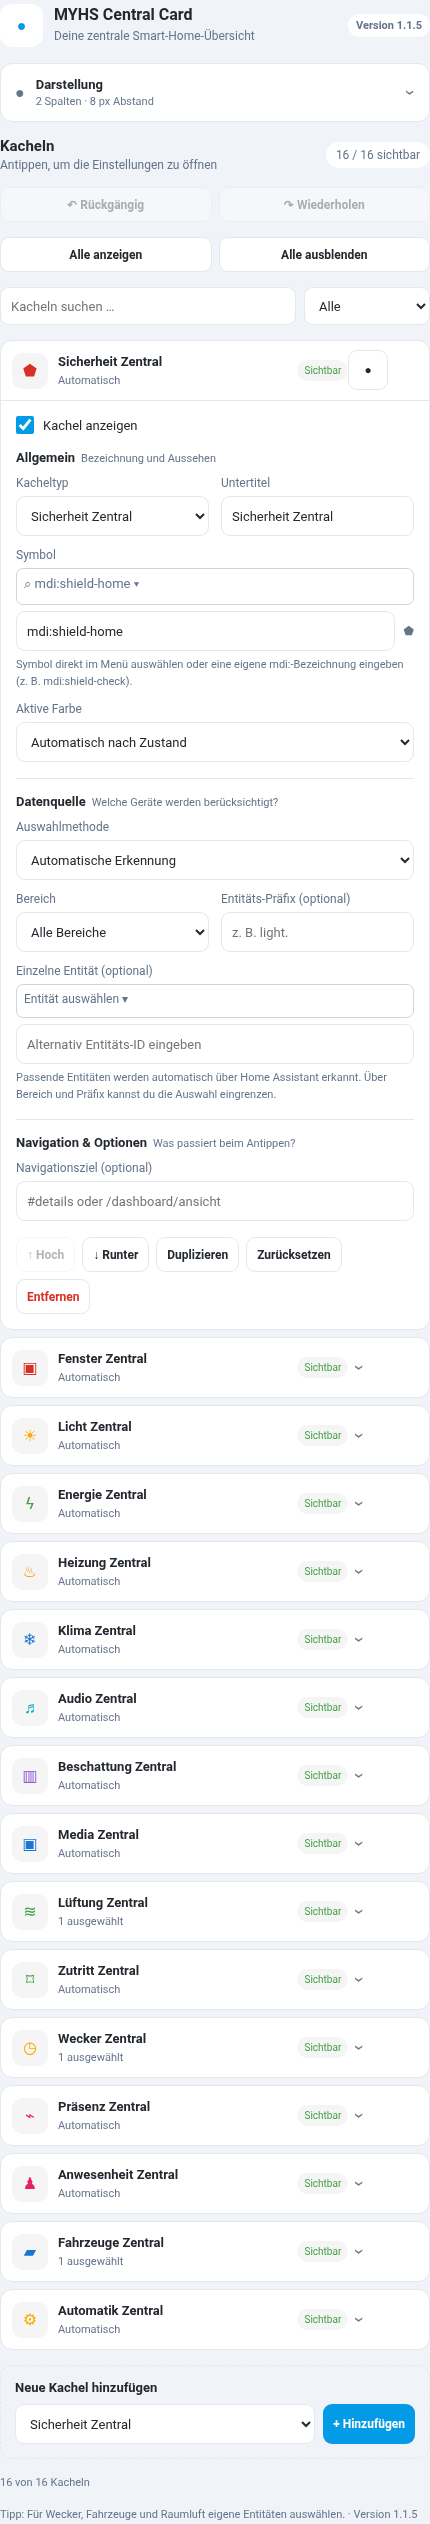
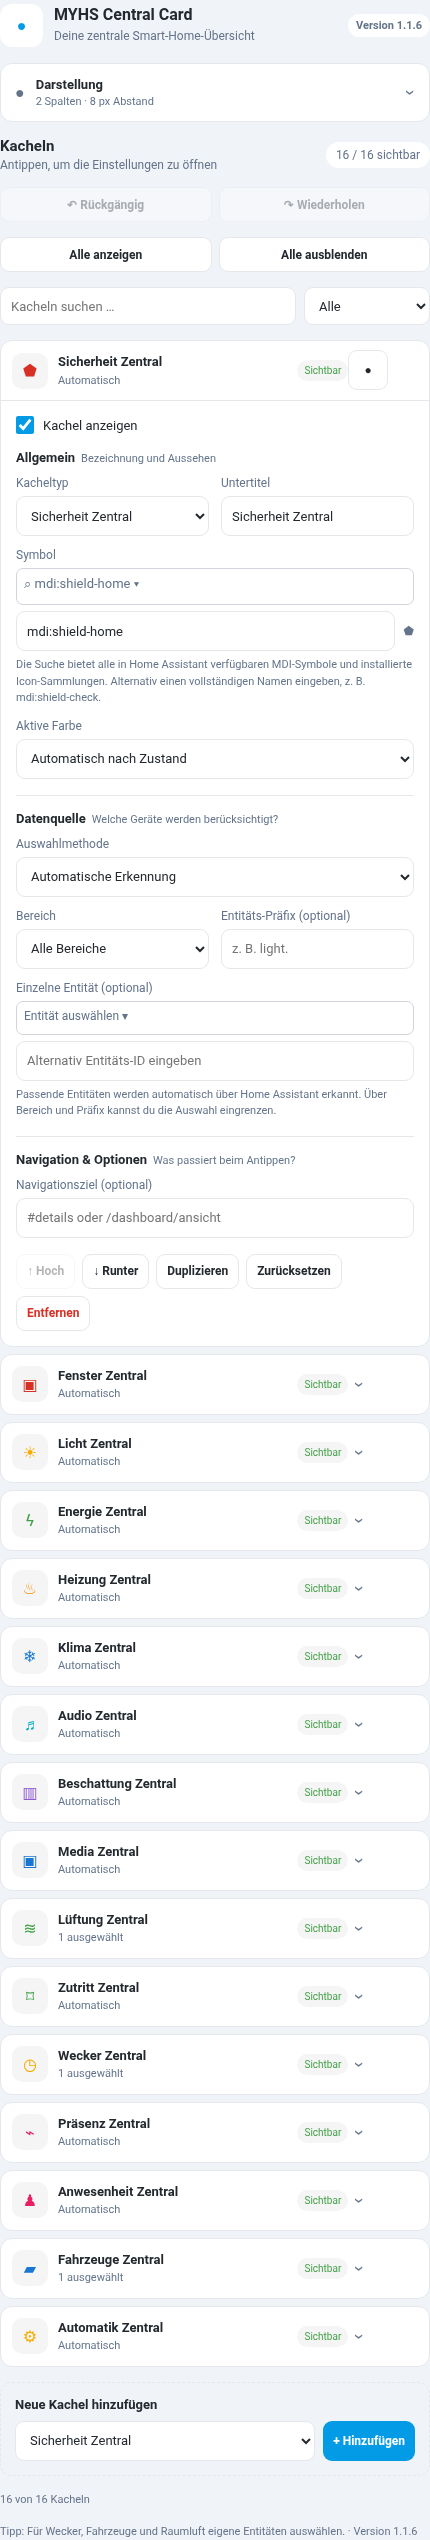
Add files via upload

diff --git a/dist/central-overview-card.js b/dist/central-overview-card.js
@@ -1,4 +1,4 @@
-/* MYHS Central Card | Version 1.1.5 | MIT | Home Assistant Lovelace | no dependencies */
+/* MYHS Central Card | Version 1.1.6 | MIT | Home Assistant Lovelace | no dependencies */
 (() => {
   'use strict';
   const TAG = 'central-overview-card';
@@ -50,10 +50,13 @@
     alarm_home_legacy:false, tiles:Object.keys(KINDS).map(createTile)});
   const strings = (value) => Array.isArray(value) ? value.filter(v => typeof v === 'string') : [];
   const uniq = (items) => [...new Set(items.filter(Boolean))];
-  // Built-in Home Assistant Material Design icons only: never require local icon packs.
+  // Accept all native mdi: icons and any optional, installed icon collection
+  // Installed icon prefixes are managed by Home Assistant.
+  // Existing mdi: defaults always work without additional icon packages.
+  const isIconName = value => typeof value === 'string' &&
+    /^[a-z][a-z0-9_-]*:[a-z0-9][a-z0-9._-]*$/i.test(value);
   const mdiIcon = (candidate, kind) =>
-    (typeof candidate === 'string' && /^mdi:[a-z0-9][a-z0-9-]*$/i.test(candidate))
-      ? candidate : (KINDS[kind]?.icon || 'mdi:help-circle');
+    isIconName(candidate) ? candidate : (KINDS[kind]?.icon || 'mdi:help-circle');
   const hasState = (entity) => Boolean(entity && typeof entity.state === 'string' &&
     entity.state.trim() !== '' && !['unknown','unavailable'].includes(entity.state));
   const esc = (s) => String(s ?? '').replace(/[&<>"']/g, (x) => ({'&':'&amp;','<':'&lt;','>':'&gt;','"':'&quot;',"'":'&#39;'}[x]));
@@ -330,7 +333,7 @@
     _update() {
       if (!this._config) return;
       if (!this._rendered) {
-        this.shadowRoot.innerHTML=`<style>${CARD_CSS}</style><ha-card data-card-version="1.1.5"><div class="grid"></div></ha-card>`;
+        this.shadowRoot.innerHTML=`<style>${CARD_CSS}</style><ha-card data-card-version="1.1.6"><div class="grid"></div></ha-card>`;
         this.shadowRoot.querySelector('.grid').addEventListener('click',(ev)=>{
           const btn=ev.target.closest('button.tile');
           if (!btn) return;
@@ -420,8 +423,13 @@
     .check {display:flex;align-items:center;gap:9px;font-size:13px;color:var(--primary-text-color);cursor:pointer;}
     .check.wide {grid-column:1 / -1;}
     .check-subtext {font-size:11px;color:var(--secondary-text-color);margin:4px 0 0 27px;}
-    ha-entity-picker,ha-icon-picker {display:block;width:100%;min-height:40px;}
-    ha-icon-picker:not(:defined) {display:none;}
+    ha-entity-picker,ha-selector.icon-selector {display:block;width:100%;min-height:40px;}
+    /* Home Assistant's official icon selector loads the complete MDI icon
+       index and any installed icon collections. Fall back to the direct picker
+       on older frontends and to the text field if neither has been loaded. */
+    ha-selector.icon-selector:not(:defined) {display:none;}
+    ha-icon-picker.icon-picker-fallback {display:none;width:100%;min-height:40px;}
+    ha-selector.icon-selector:not(:defined) + ha-icon-picker.icon-picker-fallback:defined {display:block;}
     .tiles-title {display:flex;justify-content:space-between;align-items:center;gap:10px;}
     .tiles-title h3 {margin:0;font-size:15px;}
     .tiles-title p {margin:3px 0 0;color:var(--secondary-text-color);font-size:12px;}
@@ -534,7 +542,7 @@
       const first=!this._hass;
       this._hass=hass;
       if(first && this._config) this._render();
-      else this.shadowRoot.querySelectorAll('ha-entity-picker').forEach(el=>{el.hass=hass;});
+      else this.shadowRoot.querySelectorAll('ha-entity-picker, ha-selector[data-field="icon"]').forEach(el=>{el.hass=hass;});
     }
     get hass(){return this._hass;}
     _commit(mutator,{resetFilter=false,openIndex=undefined}={}){
@@ -573,7 +581,7 @@
       const old=this._config?.tiles?.[i];if(!old)return;
       if(field==='icon'){
         value=String(value??'').trim().toLowerCase();
-        if(!/^mdi:[a-z0-9][a-z0-9-]*$/.test(value))return;
+        if(!isIconName(value))return;
       }
       const structural=['kind','source'].includes(field);
       this._commit(cfg=>{
@@ -667,7 +675,7 @@
     }
     _change(e){
       const el=e.target;
-      if(!this._config||['ha-icon-picker','ha-entity-picker'].includes(el.localName))return;
+      if(!this._config||['ha-icon-picker','ha-entity-picker','ha-selector'].includes(el.localName))return;
       if(el.id==='tile-filter'){
         this._visibilityFilter=el.value;this._applyFilter();return;
       }
@@ -688,7 +696,7 @@
     _pickerChanged(e){
       const el=e.target;
       if(this._syncingPickers||!this._config||
-          !['ha-icon-picker','ha-entity-picker'].includes(el.localName))return;
+          !['ha-icon-picker','ha-entity-picker','ha-selector'].includes(el.localName))return;
       e.stopPropagation();
       const row=el.closest('details.tile-item');if(!row)return;
       const value=e.detail?.value||'';
@@ -778,13 +786,16 @@
                 <label class="control">Kacheltyp<select data-field="kind">${Object.entries(KINDS).map(([v,d])=>option(v,d.label,tile.kind)).join('')}</select></label>
                 <label class="control">Untertitel<input data-field="label" value="${esc(displayName)}" placeholder="${esc(k.label)}"></label>
                 <div class="control wide"><span>Symbol</span>
-                  <ha-icon-picker data-field="icon" label="Home-Assistant-Symbol" value="${esc(mdiIcon(tile.icon,tile.kind))}"></ha-icon-picker>
+                  <ha-selector class="icon-selector" data-field="icon"
+                    label="Alle verfügbaren Symbole durchsuchen" value="${esc(mdiIcon(tile.icon,tile.kind))}"></ha-selector>
+                  <ha-icon-picker class="icon-picker-fallback" data-field="icon"
+                    label="Alle verfügbaren Symbole durchsuchen" value="${esc(mdiIcon(tile.icon,tile.kind))}"></ha-icon-picker>
                   <div class="input-with-preview">
                     <input data-field="icon" value="${esc(mdiIcon(tile.icon,tile.kind))}"
-                      aria-label="Eigenes Home-Assistant-Symbol" placeholder="mdi:home" spellcheck="false">
+                      aria-label="Icon-Name manuell eingeben" placeholder="mdi:home" spellcheck="false">
                     <ha-icon icon="${esc(mdiIcon(tile.icon,tile.kind))}" class="icon-preview"></ha-icon>
                   </div>
-                  <p class="icon-help">Symbol direkt im Menü auswählen oder eine eigene mdi:-Bezeichnung eingeben (z. B. mdi:shield-check).</p>
+                  <p class="icon-help">Die Suche bietet alle in Home Assistant verfügbaren MDI-Symbole und installierte Icon-Sammlungen. Alternativ einen vollständigen Namen eingeben, z. B. mdi:shield-check.</p>
                 </div>
                 <label class="control wide">Aktive Farbe<select data-field="tone">${['alarm','lock'].includes(tile.kind)?option('auto','Automatisch nach Zustand',tile.tone||'auto'):''}${Object.entries(COLOR_LABELS).map(([v,d])=>option(v,d,tile.tone||k.tone)).join('')}</select></label>
               </div>
@@ -826,7 +837,7 @@
         <header class="intro">
           <div class="brand-icon"><ha-icon icon="mdi:view-dashboard-outline"></ha-icon></div>
           <div class="intro-copy"><h3>MYHS Central Card</h3><p>Deine zentrale Smart-Home-Übersicht</p></div>
-          <span class="version">Version 1.1.5</span>
+          <span class="version">Version 1.1.6</span>
         </header>
         <details class="settings" ${this._settingsOpen?'open':''}>
           <summary><span class="settings-icon"><ha-icon icon="mdi:tune-variant"></ha-icon></span>
@@ -858,13 +869,17 @@
           <div class="add-controls"><select id="new-kind" aria-label="Neuen Kacheltyp wählen">${Object.entries(KINDS).map(([v,d])=>option(v,d.label,'')).join('')}</select>
             <button type="button" class="primary" id="add-tile">+ Hinzufügen</button></div></div>
         <p class="footer-note" id="filter-count"></p>
-        <p class="footer-note">Tipp: Für Wecker, Fahrzeuge und Raumluft eigene Entitäten auswählen. · Version 1.1.5</p>
+        <p class="footer-note">Tipp: Für Wecker, Fahrzeuge und Raumluft eigene Entitäten auswählen. · Version 1.1.6</p>
       </div>`;
       const search=this.shadowRoot.querySelector('#tile-search');
       if(search)search.value=this._searchQuery;
       this._syncingPickers=true;
-      for(const picker of this.shadowRoot.querySelectorAll('ha-icon-picker, ha-entity-picker')){
-        if(picker.localName==='ha-entity-picker' && this._hass)picker.hass=this._hass;
+      for(const picker of this.shadowRoot.querySelectorAll('ha-selector[data-field="icon"], ha-icon-picker, ha-entity-picker')){
+        if(this._hass && ['ha-entity-picker','ha-selector'].includes(picker.localName))picker.hass=this._hass;
+        if(picker.localName==='ha-selector'){
+          picker.selector={icon:{}};
+          picker.required=false;
+        }
         if(picker.dataset.field!=='new-entity')picker.value=picker.getAttribute('value')||'';
         // Some Home Assistant picker versions dispatch non-bubbling events.
         // Bind directly as well so the selection is never lost.

diff --git a/tests/icon_selector_smoke.py b/tests/icon_selector_smoke.py
@@ -1,0 +1,37 @@
+"""Simulates Home Assistant native icon selector to check end-to-end persistence."""
+from pathlib import Path
+from playwright.sync_api import sync_playwright
+root=Path(__file__).resolve().parents[1]
+html=(root/'tests/browser.html').read_text()
+selector_stub='''<script>
+ customElements.define('ha-selector', class extends HTMLElement {
+   set selector(value){this._selector=value;}
+   get selector(){return this._selector;}
+   set value(value){this._value=value;}
+   get value(){return this._value;}
+ });
+ </script>'''
+html=html.replace('<script src="../dist/central-overview-card.js"></script>',selector_stub+'<script>'+(root/'dist/central-overview-card.js').read_text()+'</script>')
+with sync_playwright() as p:
+ b=p.chromium.launch(headless=True,executable_path='/usr/bin/chromium',args=['--no-sandbox'])
+ page=b.new_page(viewport={'width':390,'height':812})
+ errors=[]
+ page.on('pageerror',lambda e:errors.append(str(e)))
+ page.set_content(html)
+ page.wait_for_function('window.editor && editor._config?.tiles?.length===16')
+ page.evaluate('''() => {
+    const row=editor.shadowRoot.querySelector('details.tile-item');row.open=true;
+    const sel=row.querySelector('ha-selector[data-field=icon]');
+    if(!sel || !sel.selector || !sel.selector.icon)throw Error('native HA icon selector missing');
+    sel.dispatchEvent(new CustomEvent('value-changed',{detail:{value:'mdi:home-circle'},bubbles:true,composed:true}));
+ }''')
+ assert page.evaluate('editor._config.tiles[0].icon')=='mdi:home-circle'
+ assert page.evaluate("editor.shadowRoot.querySelector('ha-selector').value")=='mdi:home-circle'
+ page.evaluate('''() => editor.shadowRoot.querySelector('ha-selector').dispatchEvent(
+    new CustomEvent('value-changed',{detail:{value:'phu:wallbox'},bubbles:true,composed:true}))''')
+ assert page.evaluate('editor._config.tiles[0].icon')=='phu:wallbox'
+ assert page.evaluate("editor.shadowRoot.querySelector('ha-selector').value")=='phu:wallbox'
+ assert page.evaluate("editor.shadowRoot.querySelector('input[data-field=icon]').value")=='phu:wallbox'
+ assert not errors,errors
+ b.close()
+print('OK: selector event and persistence for native and installed icon prefixes')

diff --git a/tests/browser_smoke.py b/tests/browser_smoke.py
@@ -19,7 +19,7 @@ with sync_playwright() as p:
     page.wait_for_function('window.card && window.editor && editor.shadowRoot.querySelectorAll("details.tile-item").length === 16')
     assert page.evaluate('card.shadowRoot.querySelectorAll("button.tile").length') == 16
     assert page.evaluate('editor.shadowRoot.querySelectorAll("ha-icon-picker").length') == 16
-    assert page.evaluate('editor.shadowRoot.textContent.includes("Version 1.1.5")')
+    assert page.evaluate('editor.shadowRoot.textContent.includes("Version 1.1.6")')
 
     (root / 'images').mkdir(exist_ok=True)
     page.locator('#dashboard').screenshot(path=str(root / 'images/preview.png'))

diff --git a/README.md b/README.md
@@ -4,7 +4,7 @@
 
 Eine moderne, individuell anpassbare Übersichtskarte für Home Assistant. **MYHS Central Card** bündelt wichtige Informationen zum Smart Home in **16 intelligenten Status-Kacheln** – übersichtlich gestaltet, mit dynamischen Farbverläufen und einem vollständig integrierten **visuellen Editor**.
 
-**Version 1.1.5** · **16 Kacheltypen** · **Visueller Editor** · **Home-Assistant-Icons**
+**Version 1.1.6** · **16 Kacheltypen** · **Visueller Editor** · **Home-Assistant-Icons**
 
 ![Vorschau der MYHS Central Card](images/preview.png)
 
@@ -15,7 +15,7 @@ Eine moderne, individuell anpassbare Übersichtskarte für Home Assistant. **MYH
 - **Alles auf einen Blick:** Statusinformationen zu Sicherheit, Fenstern, Licht, Klima, Medien, Anwesenheit und weiteren Bereichen.
 - **Einfach anpassbar:** Kacheln direkt im Home-Assistant-Menü suchen, hinzufügen, duplizieren, ausblenden, entfernen und neu anordnen.
 - **Flexible Datenquellen:** Automatische Erkennung, frei gewählte Entitäten oder Gruppen und Helfer.
-- **Passendes Design:** Home-Assistant-Theme-Farben, integrierte Material Design Icons (`mdi:`) und Unterstützung für helle und dunkle Themes.
+- **Passendes Design:** Home-Assistant-Theme-Farben, vollständige Home-Assistant-Symbolauswahl (`mdi:`) und Unterstützung für helle und dunkle Themes.
 - **Individuelles Layout:** Ein bis vier Spalten, einstellbare Abstände, Beschriftungen und Navigationsziele.
 - **Status und Navigation:** Die Kacheln zeigen Informationen an und können auf Dashboard-Ansichten verlinken. Geräte werden nicht direkt geschaltet.
 
@@ -51,8 +51,14 @@ Unter **Dashboard bearbeiten → Karte bearbeiten** lassen sich:
 - Kacheln schnell suchen, nach Sichtbarkeit filtern, hinzufügen, duplizieren, entfernen, ein- oder ausblenden und umsortieren;
 - Kacheltyp und Datenquelle auswählen;
 - einzelne Entitäten, Bereiche sowie Gruppen und Helfer zuordnen;
-- Namen, `mdi:`-Symbole, Statusfarben und Navigationsziele in getrennten Einstellungsabschnitten ändern;
+- Namen, alle in Home Assistant verfügbaren Symbole, Statusfarben und Navigationsziele in getrennten Einstellungsabschnitten ändern;
 - Spaltenzahl (1–4), Kachelabstände und Untertitel anpassen.
+
+### Symbolauswahl
+
+Unter **Allgemein → Symbol** steht die native, durchsuchbare Symbolauswahl von Home Assistant zur Verfügung. Sie zeigt die vorhandenen **Material Design Icons (`mdi:`)** und – sofern in Home Assistant installiert und registriert – weitere Icon-Sammlungen. Es gibt **keine fest vorgegebene, gekürzte Liste** in der MYHS Central Card.
+
+Das gewählte Symbol wird direkt in der Kachel übernommen. Alternativ kann der vollständige Icon-Name eingegeben werden. Falls der native Picker in der installierten Home-Assistant-Frontend-Version nicht verfügbar ist, bleibt die manuelle Eingabe nutzbar.
 
 ## Die 16 Kacheltypen
 
@@ -109,16 +115,16 @@ Der technische Kartentyp lautet weiterhin `custom:central-overview-card`, damit 
 
 - Farbverlauf im **135°-Winkel**, beginnend oben links und sanft auslaufend.
 - Verwendung von **Home-Assistant-Standardfarben** und Unterstützung für helle und dunkle Themes.
-- Ausschließlich integrierte **Material Design Icons (`mdi:`)**; zusätzliche Symbolpakete sind nicht erforderlich.
+- **Vollständige Home-Assistant-Symbolauswahl** mit Suche: alle integrierten `mdi:`-Icons sowie optional installierte und von Home Assistant registrierte Icon-Sammlungen. Zusätzliche Pakete sind nicht erforderlich.
 - Keine fest hinterlegten persönlichen Entitäts-IDs.
 
 **Hinweis zur Sicherheit:** Der Home-Assistant-Zustand `armed_home` bedeutet „zu Hause scharf“. Die optionale Einstellung `alarm_home_legacy` ist ausschließlich für die Kompatibilität mit früheren Darstellungen vorgesehen und standardmäßig deaktiviert.
 
 ## Aktualisierung und Fehlerbehebung
 
-**Änderungen werden nicht angezeigt?** In HACS / Marketplace bei der Karte zunächst **Update information** und danach **Redownload / Aktualisieren** wählen; anschließend die Home-Assistant-App vollständig neu starten. Bei einer manuellen Installation kann die Ressourcen-URL `/local/central-overview-card.js?v=112` helfen, eine zwischengespeicherte Datei zu umgehen.
+**Änderungen werden nicht angezeigt?** In HACS / Marketplace bei der Karte zunächst **Update information** und danach **Redownload / Aktualisieren** wählen; anschließend die Home-Assistant-App vollständig neu starten. Bei einer manuellen Installation kann die Ressourcen-URL `/local/central-overview-card.js?v=116` helfen, eine zwischengespeicherte Datei zu umgehen.
 
-**In HACS erscheint eine Commit-Kennung statt der Versionsnummer?** Auf GitHub ein **veröffentlichtes reguläres Release** mit dem Tag `v1.1.5` anlegen (ein Tag allein genügt nicht). Die Versionsanzeige in HACS basiert auf den GitHub-Releases; die Versionsangabe im Karteneditor wird von der JavaScript-Datei bereitgestellt. Bereits vorhandene höhere Release-Versionen müssen bei der Versionsplanung berücksichtigt werden.
+**In HACS erscheint eine Commit-Kennung statt der Versionsnummer?** Auf GitHub ein **veröffentlichtes reguläres Release** mit dem Tag `v1.1.6` anlegen (ein Tag allein genügt nicht). Die Versionsanzeige in HACS basiert auf den GitHub-Releases; die Versionsangabe im Karteneditor wird von der JavaScript-Datei bereitgestellt. Bereits vorhandene höhere Release-Versionen müssen bei der Versionsplanung berücksichtigt werden.
 
 **Geräte fehlen in der Übersicht?** Geräteklasse und Entitätsdomäne prüfen oder die Entitäten im visuellen Editor gezielt auswählen.
 

diff --git a/RELEASE-NOTES-v1.1.6.md b/RELEASE-NOTES-v1.1.6.md
@@ -1,0 +1,11 @@
+# MYHS Central Card v1.1.6
+
+## Icon-Auswahl erweitert
+
+- Offizielle Home-Assistant-Symbolsuche im visuellen Editor statt einer begrenzten Liste.
+- Unterstützt sämtliche von Home Assistant verfügbaren `mdi:`-Symbole und bei entsprechender Installation weitere registrierte Icon-Sammlungen.
+- Ausgewählte Icons werden in der Kartenkonfiguration gespeichert und bei Statusänderungen beibehalten.
+- Verbesserte Kompatibilität: nativer Icon-Selector mit Fallback auf vorhandenen Icon-Picker beziehungsweise manuelle Eingabe.
+- Keine Änderung an den 16 Kacheltypen oder dem Design.
+
+**Release:** Tag `v1.1.6`, als reguläres GitHub-Release veröffentlichen und anschließend in HACS/Marketplace aktualisieren.
